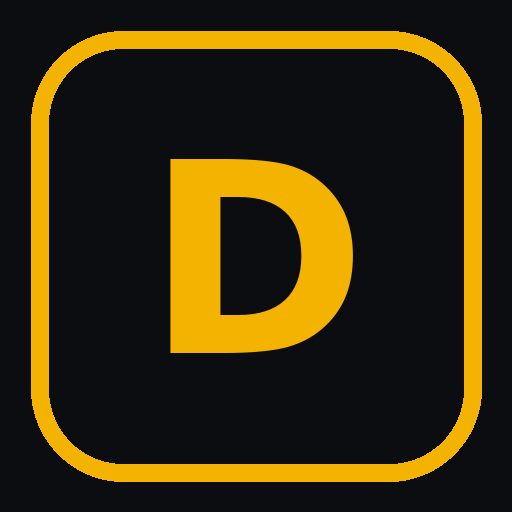
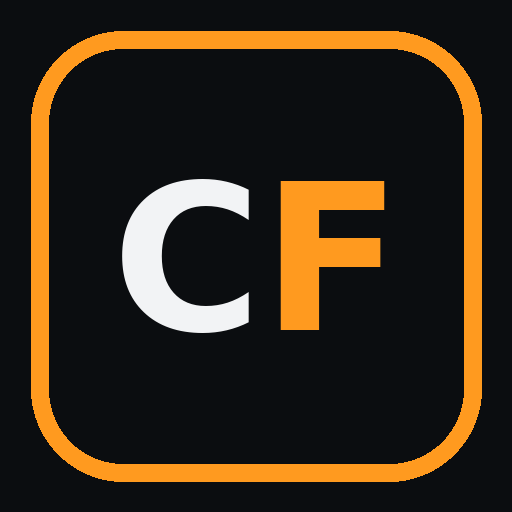
Marca CubeForge no painel e no servidor PRO
- Painel, login, ícone e manifest com a marca CubeForge.
- Novo servidor PRO nasce como "CubeForge | Inter Pro NY".
- Servidor principal aparece como "Public" no seletor.

Claude-Session: https://claude.ai/code/session_019aEV5xp1YvmAySqHE1cTMH

Changed region(s): [[0.0625, 0.0625, 0.9688, 0.9688], [0.2188, 0.3125, 0.75, 0.6875]]

diff --git a/templates/base.html b/templates/base.html
@@ -7,23 +7,23 @@
 <meta name="apple-mobile-web-app-capable" content="yes">
 <meta name="mobile-web-app-capable" content="yes">
 <meta name="apple-mobile-web-app-status-bar-style" content="black-translucent">
-<meta name="apple-mobile-web-app-title" content="DARK Painel">
+<meta name="apple-mobile-web-app-title" content="CubeForge">
 <link rel="manifest" href="{{ url_for('static', filename='manifest.json') }}">
 <link rel="icon" href="{{ url_for('static', filename='icon-192.png') }}">
 <link rel="apple-touch-icon" href="{{ url_for('static', filename='icon-192.png') }}">
-<title>{% block title %}Painel{% endblock %} · DARK SERVERS</title>
+<title>{% block title %}Painel{% endblock %} · CubeForge</title>
 <link rel="stylesheet" href="{{ url_for('static', filename='style.css') }}">
 </head>
 <body>
 <header class="topbar">
   <button type="button" class="menubtn" aria-label="Abrir menu" aria-controls="side" aria-expanded="false" onclick="toggleMenu()">☰</button>
-  <div class="brand"><span class="d">DARK</span> <span class="p">SERVERS</span></div>
+  <div class="brand"><span class="d">Cube</span><span class="p">Forge</span></div>
   {% if srv is defined %}<span class="topsrv">{{ srv.label }}</span>{% endif %}
 </header>
 <div class="overlay" onclick="toggleMenu(false)"></div>
 <div class="layout">
   <aside class="side" id="side">
-    <div class="brand"><span class="d">DARK</span> <span class="p">SERVERS</span><small>Painel dos servidores</small></div>
+    <div class="brand"><span class="d">Cube</span><span class="p">Forge</span><small>Painel dos servidores</small></div>
     {% if servers|length > 1 %}
     <form method="post" action="{{ url_for('trocar_servidor') }}" class="srvpick">
       <input type="hidden" name="csrf" value="{{ csrf }}">

diff --git a/templates/login.html b/templates/login.html
@@ -6,17 +6,17 @@
 <meta name="theme-color" content="#0b0d10">
 <meta name="apple-mobile-web-app-capable" content="yes">
 <meta name="mobile-web-app-capable" content="yes">
-<meta name="apple-mobile-web-app-title" content="DARK Painel">
+<meta name="apple-mobile-web-app-title" content="CubeForge">
 <link rel="manifest" href="{{ url_for('static', filename='manifest.json') }}">
 <link rel="icon" href="{{ url_for('static', filename='icon-192.png') }}">
 <link rel="apple-touch-icon" href="{{ url_for('static', filename='icon-192.png') }}">
-<title>Entrar · DARK PUBLIC SERVER</title>
+<title>Entrar · CubeForge</title>
 <link rel="stylesheet" href="{{ url_for('static', filename='style.css') }}">
 </head>
 <body>
 <div class="loginbox">
   <div class="brand" style="font-size:24px;text-align:center;margin-bottom:20px">
-    <span class="d">DARK</span> <span class="p">PUBLIC SERVER</span> <span>NY</span>
+    <span class="d">Cube</span><span class="p">Forge</span>
     <small>Painel de administração</small>
   </div>
   <div class="card">

diff --git a/static/style.css b/static/style.css
@@ -11,7 +11,7 @@ a{color:var(--gold2)}
 .side{width:230px;background:var(--panel);border-right:1px solid var(--line);
   padding:22px 14px;display:flex;flex-direction:column;gap:4px;flex-shrink:0}
 .brand{font-weight:800;letter-spacing:.06em;font-size:18px;margin:0 8px 22px}
-.brand .d{color:#9aa0a6}.brand .p{color:var(--gold)}.brand small{display:block;
+.brand .d{color:#f2f3f5}.brand .p{color:#ff9a1f}.brand small{display:block;
   color:var(--muted);font-weight:500;letter-spacing:0;font-size:12px}
 .side form.srvpick{margin:0 4px 16px}
 .srvpick label{margin:0 0 6px;font-size:12px;color:var(--muted);text-transform:uppercase;letter-spacing:.06em}

diff --git a/app.py b/app.py
@@ -1,4 +1,4 @@
-"""Painel web do servidor AssaultCube (DARK PUBLIC SERVER).
+"""Painel web do servidor AssaultCube (CubeForge).
 
 Roda como o usuário `ac` e controla o servidor do jogo por systemd (--user).
 """
@@ -24,7 +24,7 @@ DEMO = os.environ.get("PAINEL_DEMO") == "1"  # só para testes: não chama syste
 # Servidores de jogo controlados pelo painel. Cada um tem a sua pasta do
 # AssaultCube e o seu serviço systemd. Só aparecem os que estão instalados.
 SERVERS = [
-    {"id": "public", "label": "Public · For Fun", "dir": AC_DIR, "service": "ac-server"},
+    {"id": "public", "label": "Public", "dir": AC_DIR, "service": "ac-server"},
     {"id": "pro", "label": "Inter Pro", "dir": os.path.join(AC_DIR, "pro"), "service": "ac-pro"},
 ]
 

diff --git a/README.md b/README.md
@@ -1,4 +1,4 @@
-# DARK PUBLIC SERVER · Painel
+# CubeForge · Painel dos servidores
 
 Painel web para administrar um servidor **AssaultCube 1.3** rodando em Linux (Ubuntu), com login.
 
